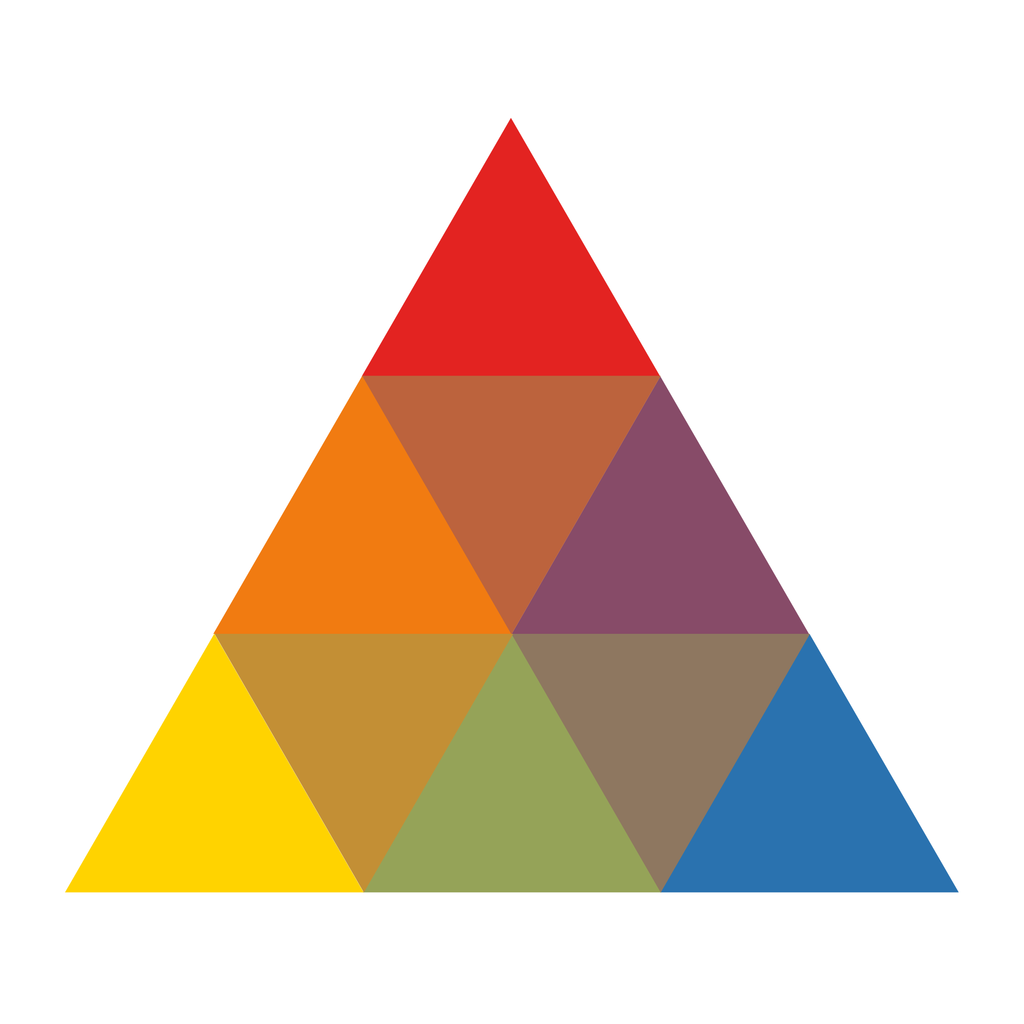
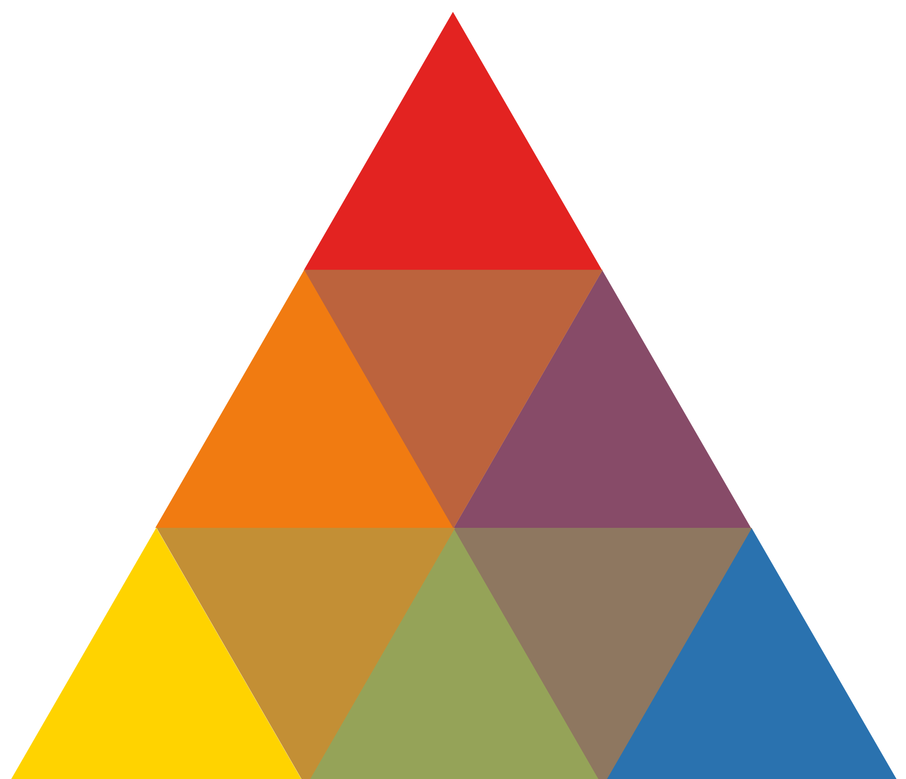
conference26

diff --git a/_layouts/27conference.html b/_layouts/27conference.html
@@ -14,7 +14,7 @@ layout: default
 
 <style>
 body {
-  font-family: 'Kabel', Arial, sans-serif;
+  font-family: Arial, sans-serif;
   color: black;
   margin: 0;
   height: 100vh;
@@ -40,14 +40,14 @@ color: #e32321;
 	h2 {
 	color: #2a72af;
 	font-family: 'Kabel', sans-serif;
-	font-size: 2em;
+	font-size: 1.5em;
 	font-weight: 900;
 }
 
 	h3 {
 	color: #2a72af;
 	font-family: 'Kabel', sans-serif;
-	font-size: 2em;
+	font-size: 1.5em;
 	font-weight: 900;
 }
   
